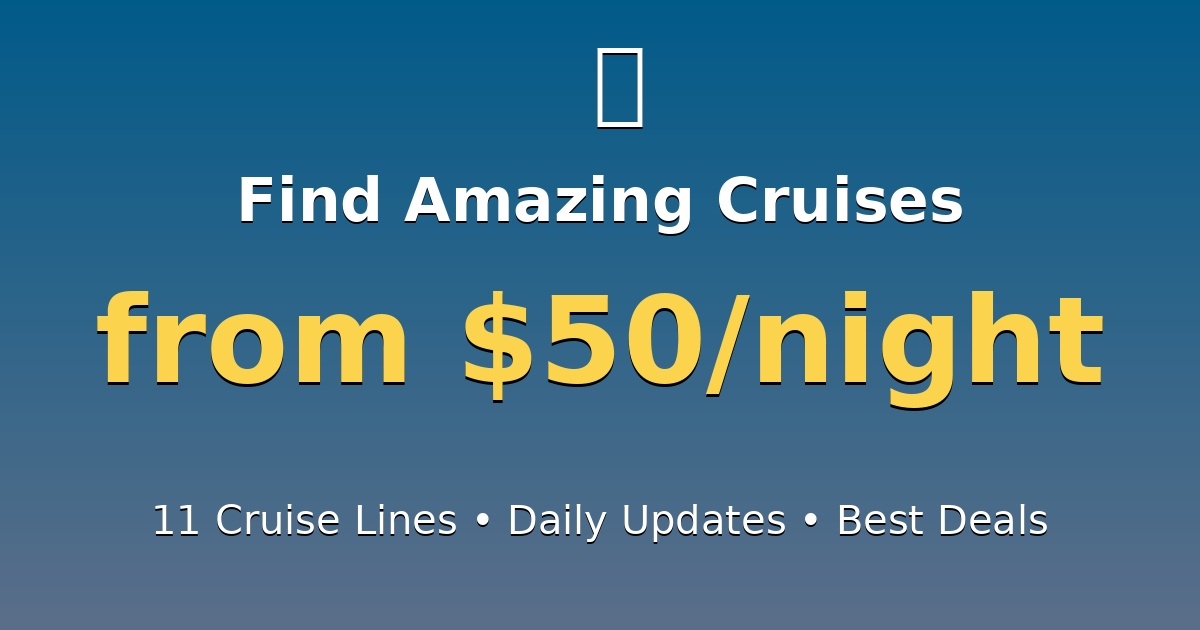
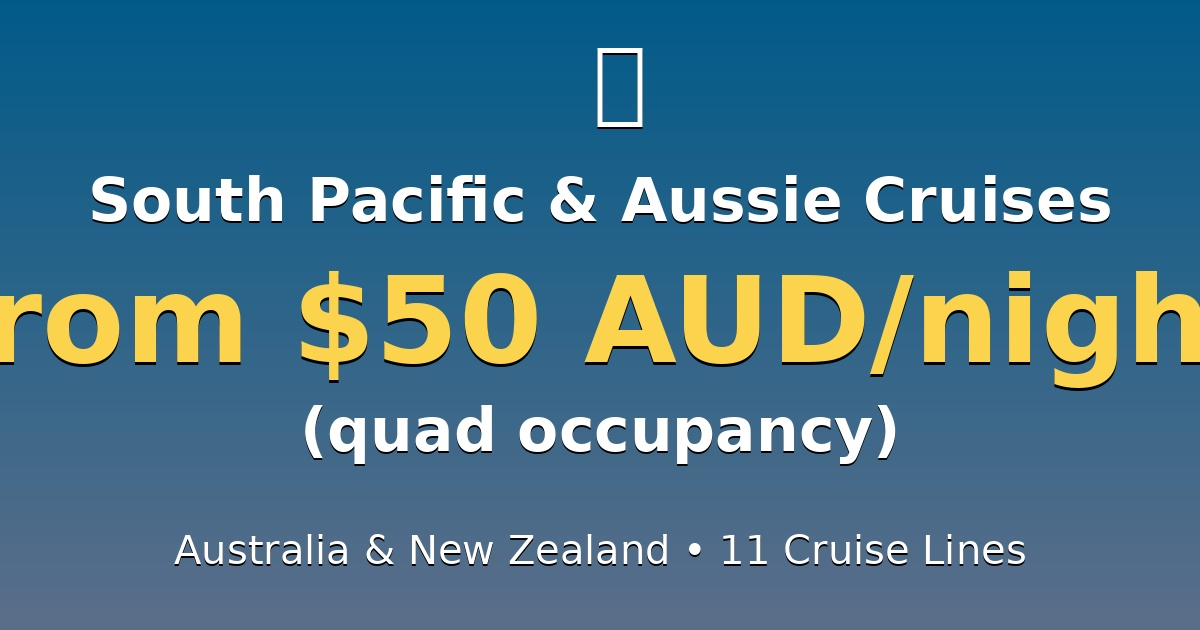
Update OG image and meta tags for South Pacific & Aussie cruisers with quad pricing, improve senior mode spacing

Changed region(s): [[0.0, 0.4222, 1.0, 0.754], [0.1233, 0.7841, 0.8942, 0.9048], [0.0617, 0.2714, 0.925, 0.3921]]

diff --git a/templates/base.html b/templates/base.html
@@ -13,8 +13,8 @@
     <!-- Open Graph / Facebook / LinkedIn / Slack / Discord -->
     <meta property="og:type" content="website">
     <meta property="og:url" content="https://cheapcruises.au{% block og_url %}{% endblock %}">
-    <meta property="og:title" content="{% block og_title %}CheapCruises.au - Find Amazing Cruise Deals in Australia{% endblock %}">
-    <meta property="og:description" content="{% block og_description %}Find amazing cruise deals from $50 per night! Compare prices from 11 major cruise lines including Royal Caribbean, Carnival, and Princess. Departing from Sydney, Brisbane, Melbourne and more.{% endblock %}">
+    <meta property="og:title" content="{% block og_title %}CheapCruises.au - South Pacific & Aussie Cruise Deals{% endblock %}">
+    <meta property="og:description" content="{% block og_description %}From $50 AUD/night (quad)! South Pacific, Australia & New Zealand cruises for Aussie cruisers. Compare 11 major cruise lines departing Sydney, Brisbane, Melbourne & Auckland.{% endblock %}">
     <meta property="og:image" content="https://cheapcruises.au{% block og_image %}/static/og-image.jpg{% endblock %}">
     <meta property="og:image:width" content="1200">
     <meta property="og:image:height" content="630">
@@ -24,8 +24,8 @@
     <!-- Twitter Card -->
     <meta name="twitter:card" content="summary_large_image">
     <meta name="twitter:url" content="https://cheapcruises.au{% block twitter_url %}{% endblock %}">
-    <meta name="twitter:title" content="{% block twitter_title %}CheapCruises.au - Find Amazing Cruise Deals{% endblock %}">
-    <meta name="twitter:description" content="{% block twitter_description %}Find amazing cruise deals from $50 per night! Compare prices from 11 major cruise lines. Departing from Sydney, Brisbane, Melbourne and more.{% endblock %}">
+    <meta name="twitter:title" content="{% block twitter_title %}CheapCruises.au - South Pacific & Aussie Cruises{% endblock %}">
+    <meta name="twitter:description" content="{% block twitter_description %}From $50 AUD/night (quad)! South Pacific, Australia & New Zealand cruises for Aussie cruisers. Compare 11 cruise lines from Sydney, Brisbane, Melbourne & Auckland.{% endblock %}">
     <meta name="twitter:image" content="https://cheapcruises.au{% block twitter_image %}/static/og-image.jpg{% endblock %}">
     
     <!-- Additional Meta Tags -->
@@ -73,7 +73,8 @@
         /* Senior Mode Styles - Enhanced Accessibility */
         body.senior-mode {
             font-size: 120% !important;
-            line-height: 1.8 !important;
+            line-height: 2.0 !important;
+            letter-spacing: 0.02em !important;
         }
         
         /* Larger headings in Senior Mode */
@@ -149,11 +150,30 @@
         
         /* Better spacing */
         body.senior-mode .space-y-4 > * + * {
-            margin-top: 1.5rem !important;
+            margin-top: 2rem !important;
         }
         
         body.senior-mode .space-y-6 > * + * {
+            margin-top: 2.5rem !important;
+        }
+        
+        body.senior-mode .space-y-2 > * + * {
+            margin-top: 1rem !important;
+        }
+        
+        body.senior-mode .space-y-3 > * + * {
+            margin-top: 1.5rem !important;
+        }
+        
+        /* More spacing for paragraphs */
+        body.senior-mode p {
+            margin-bottom: 1.25rem !important;
+        }
+        
+        /* More spacing for headings */
+        body.senior-mode h1, body.senior-mode h2, body.senior-mode h3 {
             margin-top: 2rem !important;
+            margin-bottom: 1.5rem !important;
         }
         
         /* Larger touch targets */

diff --git a/generate_og_image.py b/generate_og_image.py
@@ -44,19 +44,23 @@ def create_og_image():
     draw.text((620, title_y), emoji, fill='white', font=title_font, anchor="mm")
     
     # Draw main message
-    main_text = "Find Amazing Cruises"
+    main_text = "South Pacific & Aussie Cruises"
     draw.text((600, 200 + 2), main_text, fill=(0, 0, 0, 128), font=subtitle_font, anchor="mm")
     draw.text((600, 200), main_text, fill='white', font=subtitle_font, anchor="mm")
     
     # Draw price highlight
-    price_text = "from $50/night"
-    draw.text((600, 340 + 3), price_text, fill=(0, 0, 0, 128), font=price_font, anchor="mm")
-    draw.text((600, 340), price_text, fill='#FCD34D', font=price_font, anchor="mm")
+    price_text = "from $50 AUD/night"
+    draw.text((600, 320 + 3), price_text, fill=(0, 0, 0, 128), font=price_font, anchor="mm")
+    draw.text((600, 320), price_text, fill='#FCD34D', font=price_font, anchor="mm")
+    
+    quad_text = "(quad occupancy)"
+    draw.text((600, 430 + 2), quad_text, fill=(0, 0, 0, 128), font=subtitle_font, anchor="mm")
+    draw.text((600, 430), quad_text, fill='white', font=subtitle_font, anchor="mm")
     
     # Draw bottom text
-    bottom_text = "11 Cruise Lines • Daily Updates • Best Deals"
-    draw.text((600, 520 + 2), bottom_text, fill=(0, 0, 0, 128), font=small_font, anchor="mm")
-    draw.text((600, 520), bottom_text, fill='white', font=small_font, anchor="mm")
+    bottom_text = "Australia & New Zealand • 11 Cruise Lines"
+    draw.text((600, 550 + 2), bottom_text, fill=(0, 0, 0, 128), font=small_font, anchor="mm")
+    draw.text((600, 550), bottom_text, fill='white', font=small_font, anchor="mm")
     
     # Save image
     static_dir = 'static'
